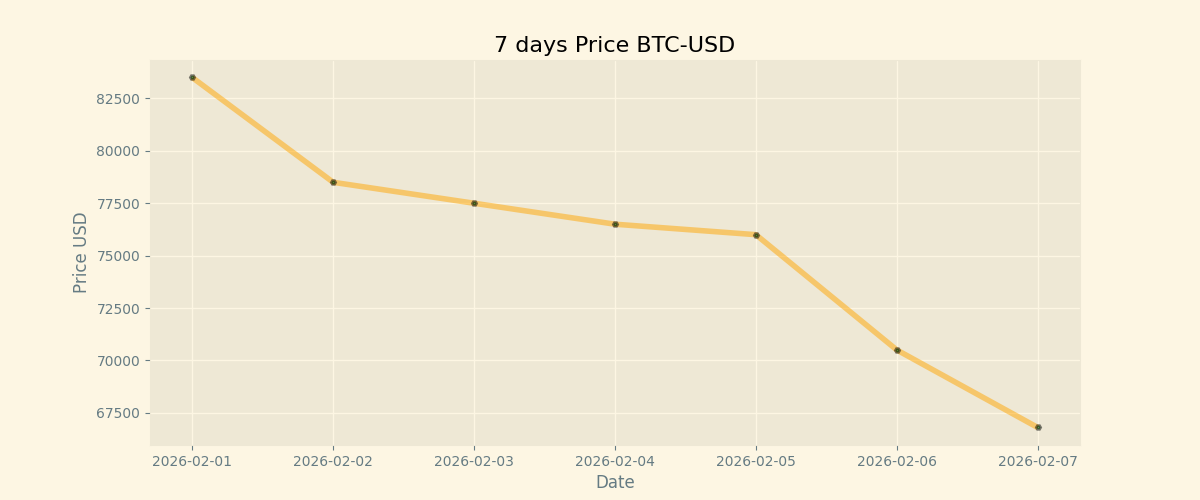
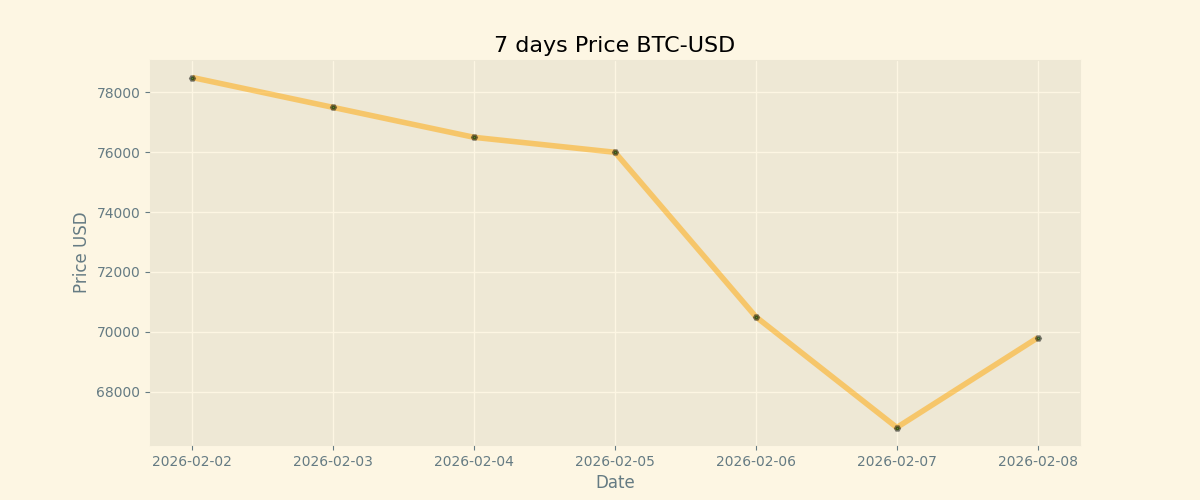
Duty Updates 2026-02-08

diff --git a/README.md b/README.md
@@ -9,8 +9,8 @@
 
 | Currency | Price           |
 | -------- | --------------- |
-| **BTC**  | **$ 66800.0** |
-| **ETH**  | **$ 2055.72** |
+| **BTC**  | **$ 69800.08** |
+| **ETH**  | **$ 2070.0** |
 
 ## BTC chart
 
